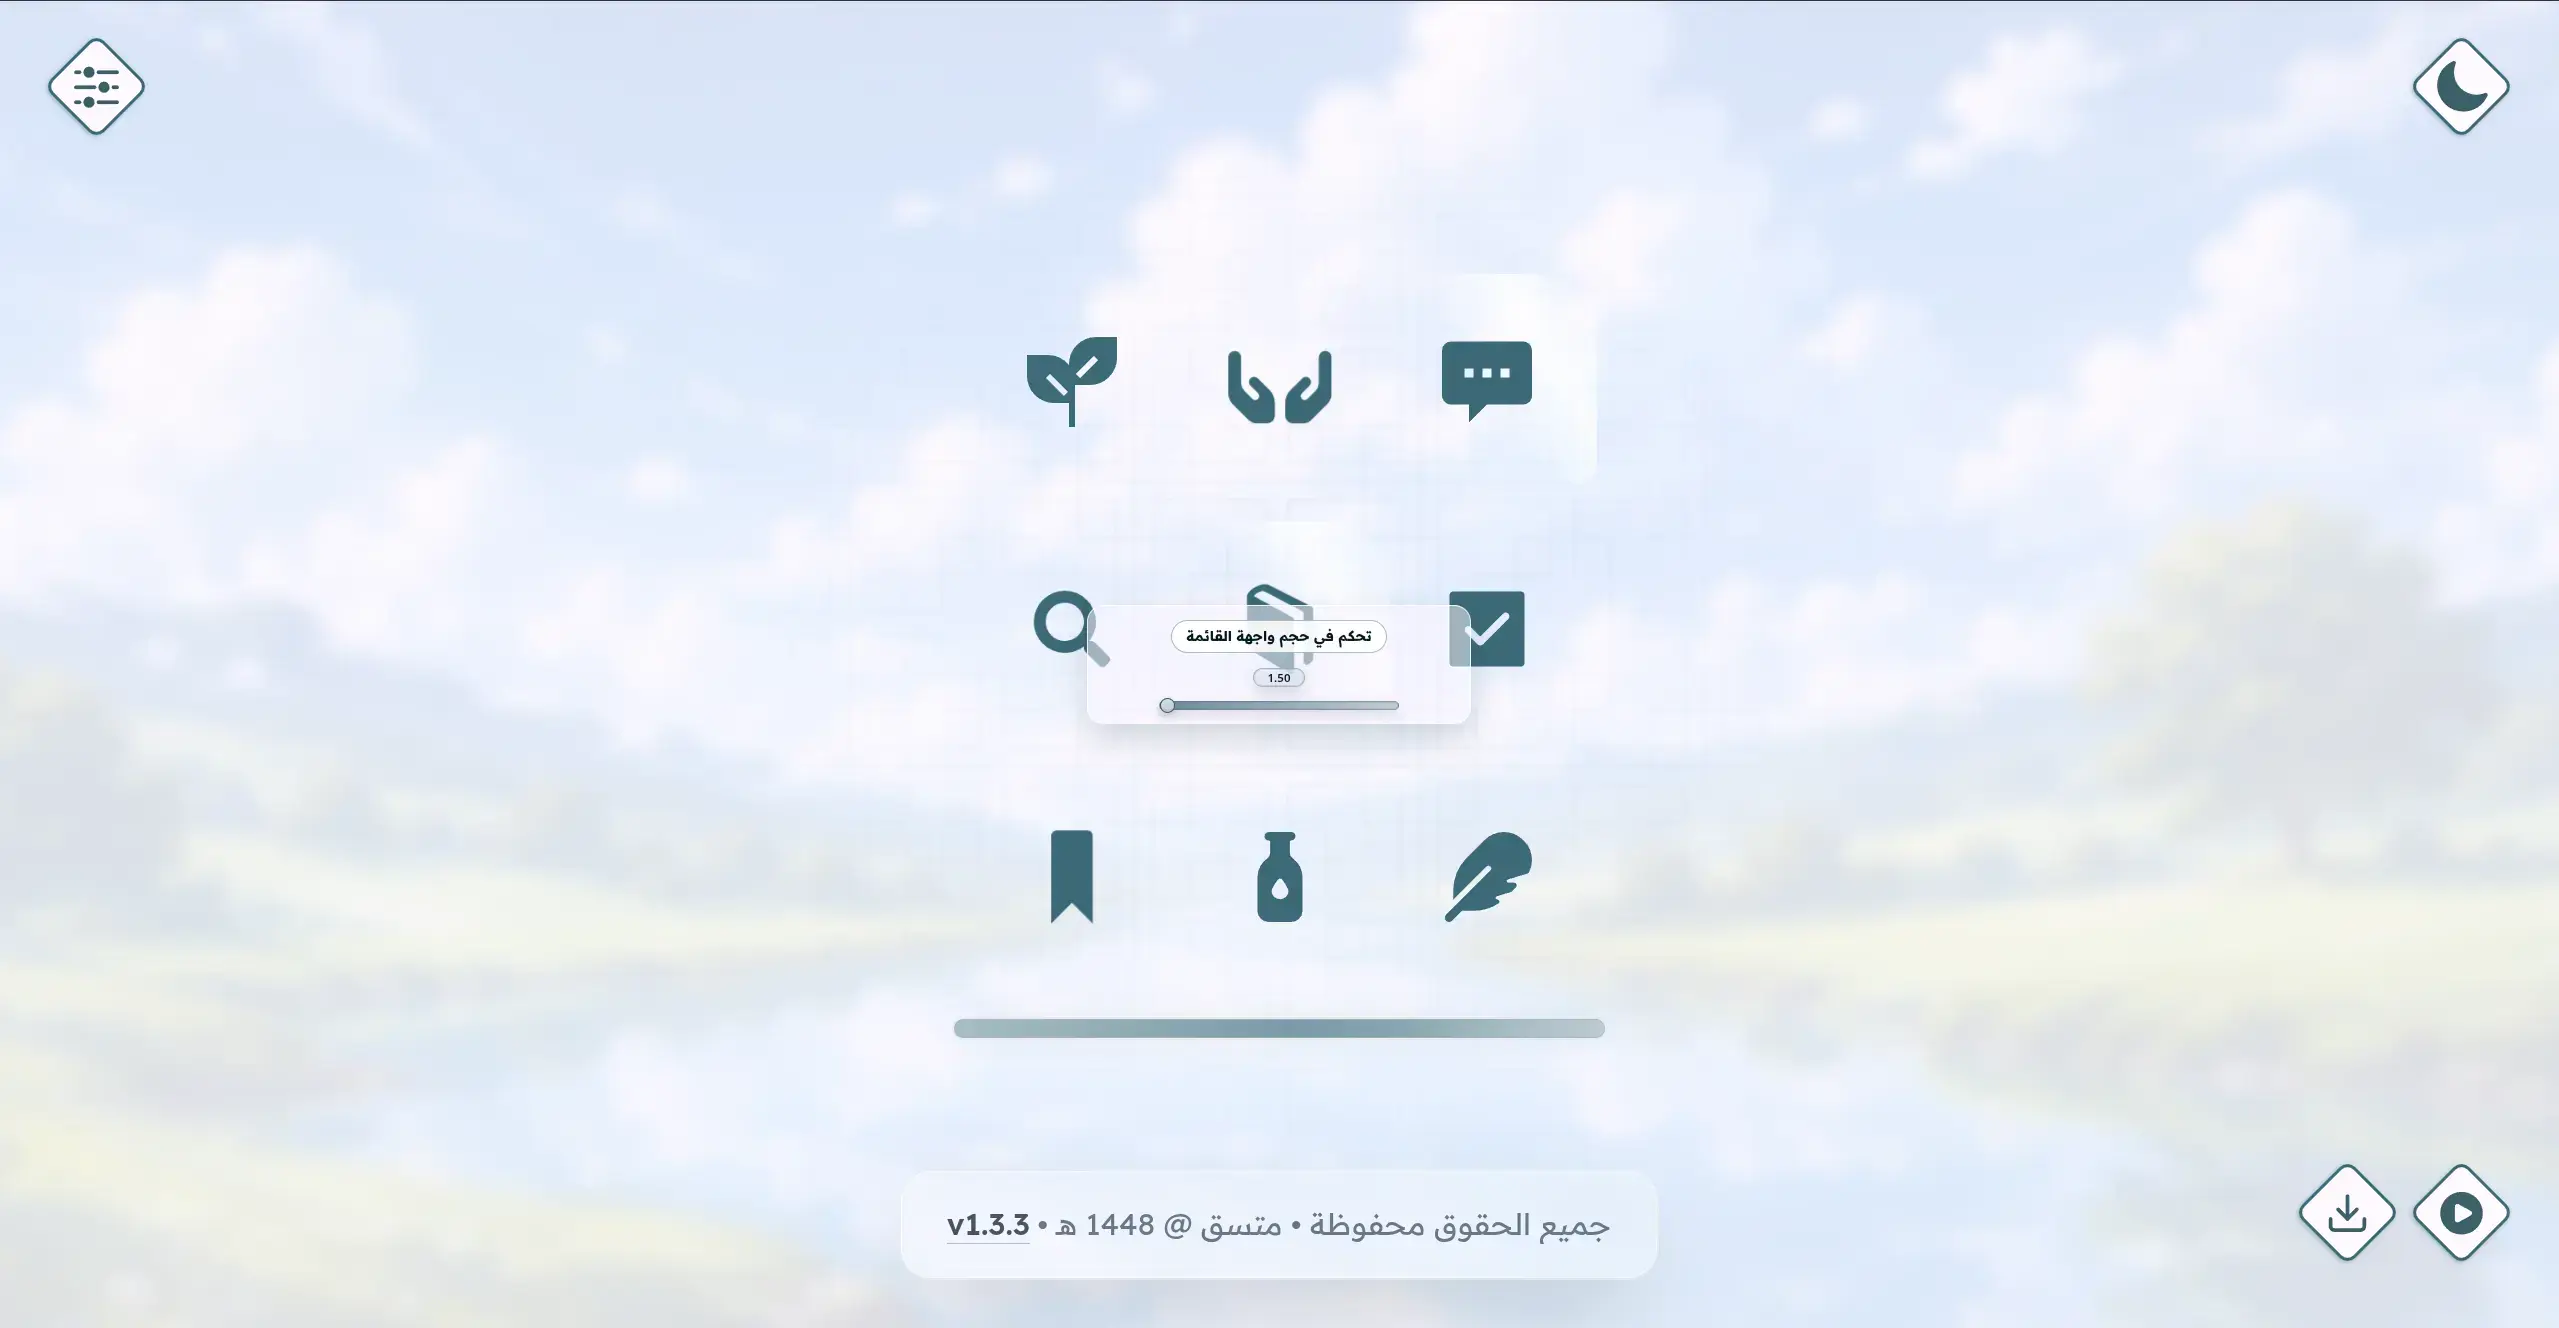
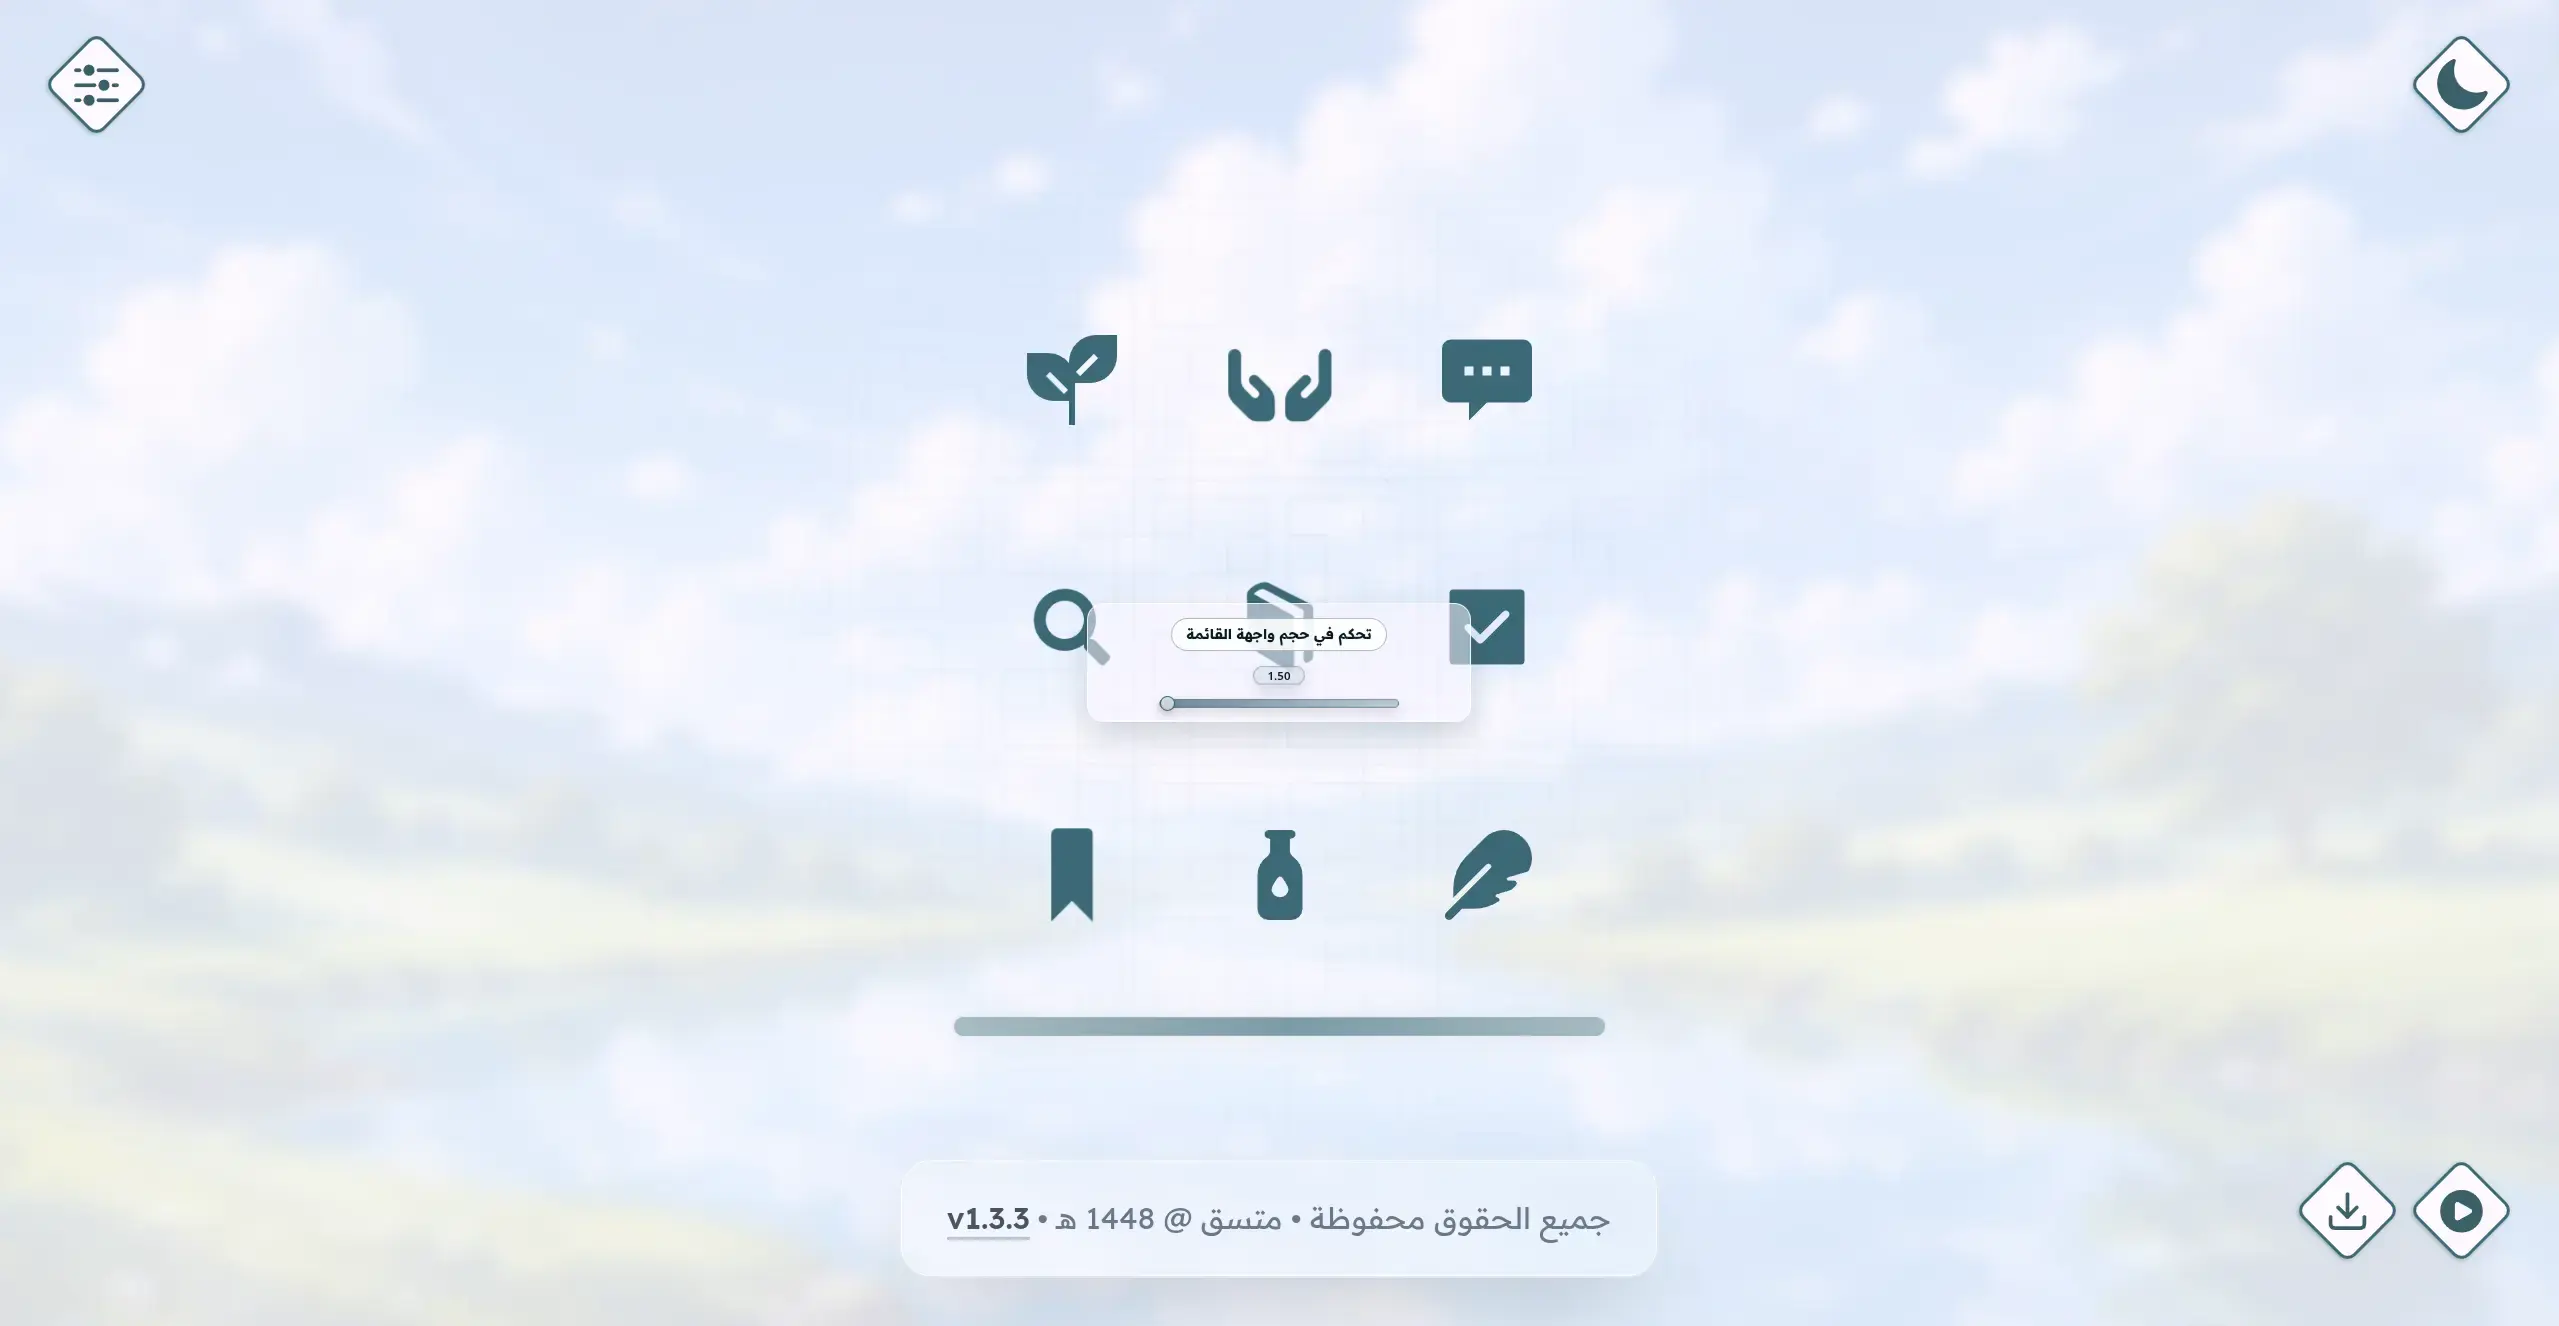
New Arabic line-height TailwindCSS utility helper

diff --git a/resources/css/app.css b/resources/css/app.css
@@ -72,6 +72,7 @@
     --font-english-sans:
         'Cairo', 'Instrument Sans', ui-sans-serif, system-ui, sans-serif, 'Apple Color Emoji',
         'Segoe UI Emoji', 'Segoe UI Symbol', 'Noto Color Emoji';
+    --leading-arabic: 1.8;
 }
 
 @variant dark (&:where(.dark, .dark *));

diff --git a/resources/views/components/partials/copyright-and-version.blade.php b/resources/views/components/partials/copyright-and-version.blade.php
@@ -300,7 +300,7 @@
         x-on:selectstart.prevent
     >
         <p
-            class="inline-flex max-w-full items-center justify-center gap-1 overflow-hidden whitespace-nowrap text-center leading-tight [text-wrap:nowrap]">
+            class="inline-flex max-w-full items-center justify-center gap-1 overflow-hidden whitespace-nowrap text-center leading-arabic [text-wrap:nowrap]">
             <span class="min-w-0 shrink overflow-hidden text-ellipsis whitespace-nowrap">
                 {{ arabic_text('جميع الحقوق محفوظة') }} • {{ arabic_text('متسق') }} @ <span
                     x-text="window.dayjs().calendar('hijri').format('YYYY')"
